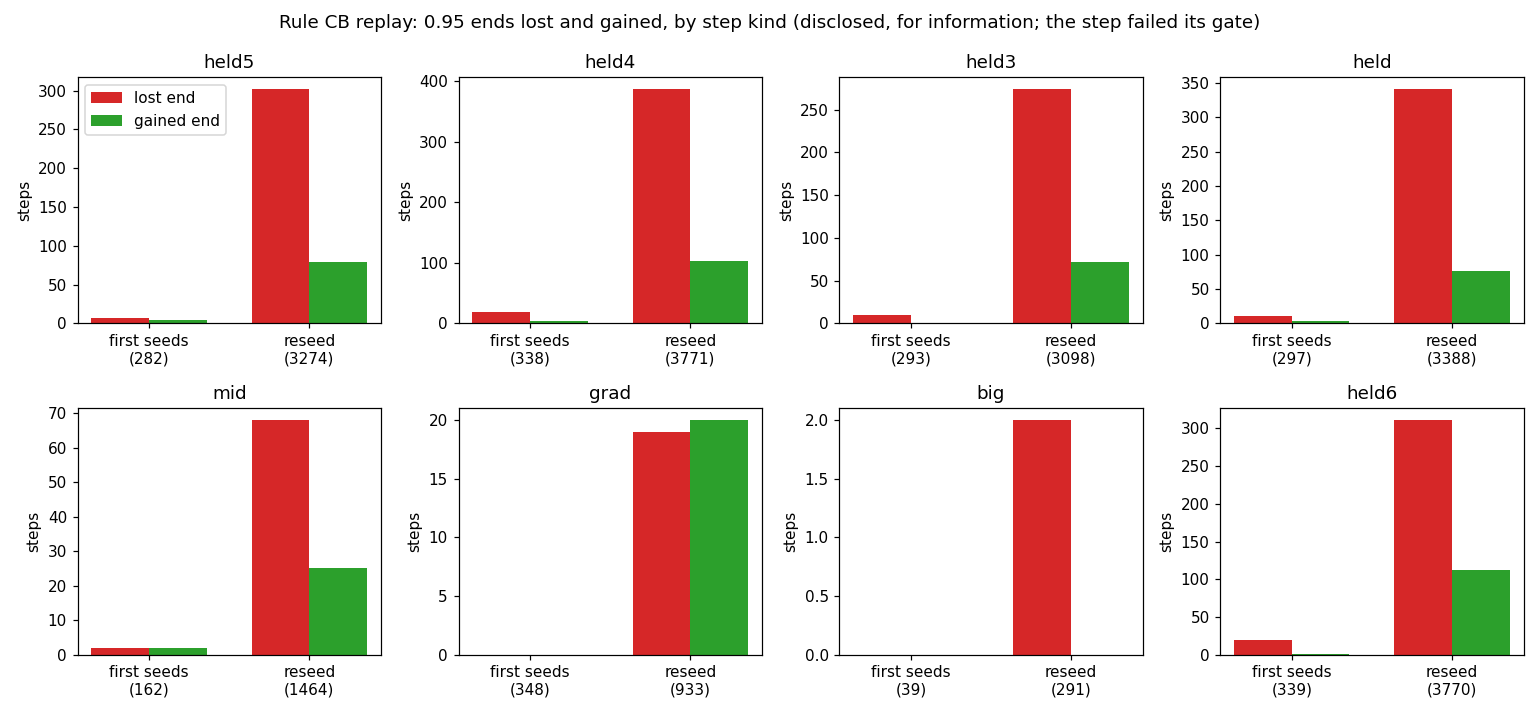
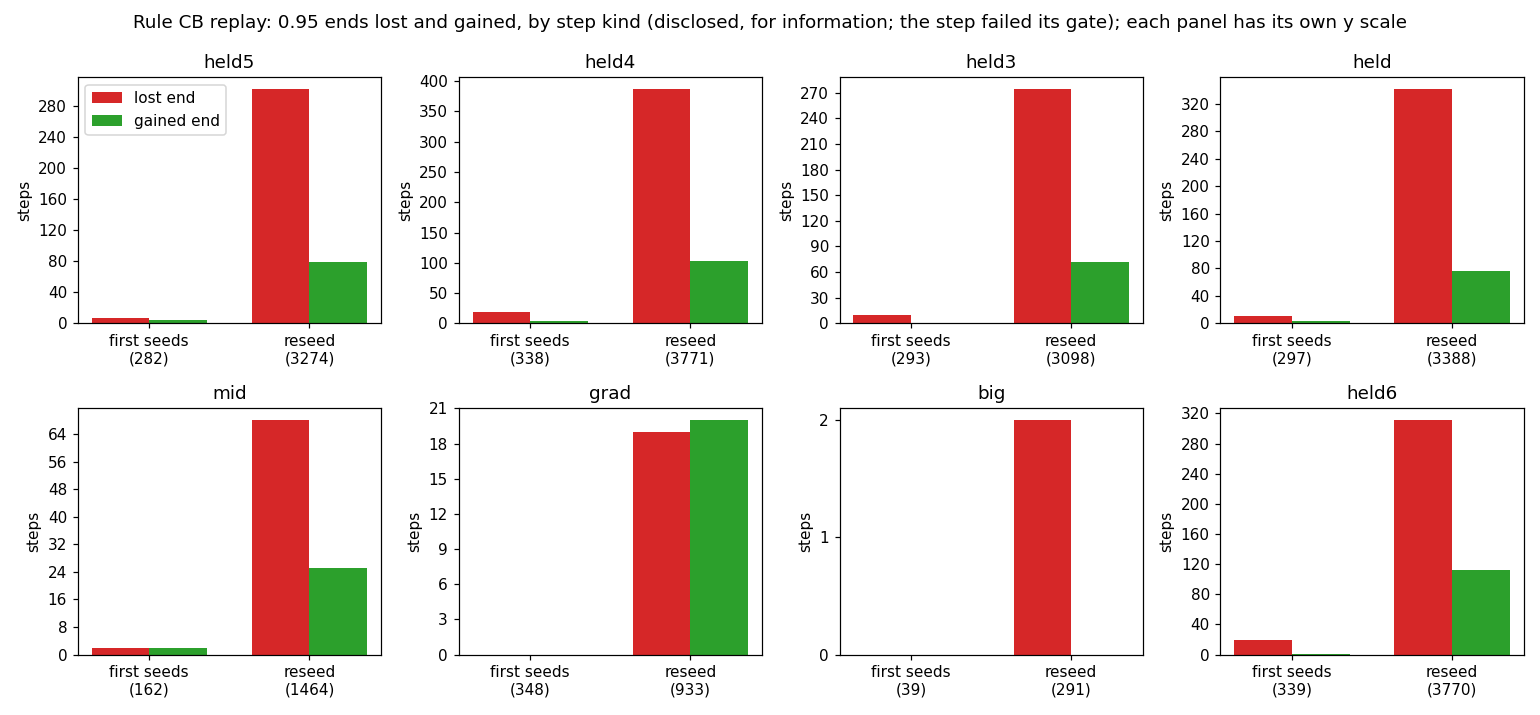
AR5 step 23 review fixes: 45.007%, Wilson intervals, totals and over-0.33 shares, mid lost-step facts, pauses, disclosure lines, D-20261119-N2

diff --git a/icenine_py/scripts/autoresearch/ar5/ball_info.py b/icenine_py/scripts/autoresearch/ar5/ball_info.py
@@ -11,6 +11,7 @@ gate. Step kinds: first seeds (``reseed`` False) and reseed steps (``reseed`` Tr
 tests of significance.
 """
 
+import gzip
 import json
 import sys
 from pathlib import Path
@@ -21,6 +22,7 @@ import ball_guard as BG  # noqa: E402
 import ball_replay_collect as BC  # noqa: E402
 import ball_rules as BR  # noqa: E402
 import doc_tables as DT  # noqa: E402
+import stats as ST  # noqa: E402
 
 RD = BC.RD
 CACHE = BG.base_cache()
@@ -54,6 +56,38 @@ def where_counts(s: str) -> Dict[str, Any]:
     return dict(n=len(d), zone=zone, dist=dist, cross=cross)
 
 
+def mid_lost_facts() -> Dict[str, Any]:
+    """The facts about the 70 lost ``mid`` steps (from the rows and J5D's stored e1_log)."""
+    rows = [
+        json.loads(x)
+        for x in BG.guarded(CACHE / "replay_on_mid" / "rows.jsonl").read_text().splitlines()
+        if x
+    ]
+    with gzip.open(BG.guarded(CACHE / "J5D_mid" / "e1_log.json.gz"), "rt") as fh:
+        ent = json.load(fh)
+    lost = [r for r in rows if r["lost_end"]]
+    hits = []
+    for r in lost:
+        e = ent[r["index"]]
+        hits.append(
+            min(f[3] for f in e["fits"] if f[0] == e["stop"] and f[2] == "M" and f[3] >= 0.95)
+        )
+    hits.sort()
+    n = len(hits)
+    med = hits[n // 2] if n % 2 else 0.5 * (hits[n // 2 - 1] + hits[n // 2])
+    return dict(
+        lost=n,
+        median_stored_end_hit_ratio=float(med),
+        min_stored_end_hit_ratio=float(hits[0]),
+        stored_end_under_0_97=sum(1 for h in hits if h < 0.97),
+        stored_end_is_mc_fit=n,
+        reseed_steps=sum(1 for r in lost if r["reseed"]),
+        j5d_steps_with_a_pause=sum(1 for r in lost if r["j5d_paused"] > 0),
+        j5d_evals=sum(r["j5d_evals"] for r in lost),
+        cb_evals=sum(r["evals"] for r in lost),
+    )
+
+
 def main() -> int:
     info: Dict[str, Any] = dict(label=LABEL, samples={})
     for s in ORDER:
@@ -65,7 +99,25 @@ def main() -> int:
         one = BC.one(s)
         t = dict(one)
         t.pop("moved_list", None)
-        info["samples"][s] = dict(replay=t, kinds=kind_counts(rows), where=where_counts(s))
+        w = where_counts(s)
+        lo, hi = ST.wilson(int(t["lost"]), int(t["steps"]))
+        t["lost_share_wilson95"] = [float(lo), float(hi)]
+        summ = json.loads(BG.guarded(CACHE / f"replay_on_{s}" / "summary.json").read_text())
+        t["pauses"] = int(summ["stats"]["pauses"])
+        w["over_0_33"] = int(w["dist"]["0.33-0.64"] + w["dist"]["over 0.64"])
+        w["over_0_33_share"] = w["over_0_33"] / max(1, w["n"])
+        info["samples"][s] = dict(replay=t, kinds=kind_counts(rows), where=w)
+    info["totals"] = dict(
+        steps=sum(info["samples"][s]["replay"]["steps"] for s in ORDER),
+        lost=sum(info["samples"][s]["where"]["n"] for s in ORDER),
+        lost_over_0_33=sum(info["samples"][s]["where"]["over_0_33"] for s in ORDER),
+        pauses=sum(info["samples"][s]["replay"]["pauses"] for s in ORDER),
+    )
+    info["mid_lost_facts"] = mid_lost_facts()
+    pp = RD / "replay_partial.json"
+    part = json.loads(pp.read_text())
+    part["mid_lost_facts"] = info["mid_lost_facts"]
+    pp.write_text(json.dumps(part, indent=1) + "\n")
     # predictions of the plan (prediction 2), hit or missed
     pred: Dict[str, Any] = {}
     for s in ORDER:
@@ -92,6 +144,7 @@ def main() -> int:
 
     matplotlib.use("Agg")
     import matplotlib.pyplot as plt
+    from matplotlib.ticker import MaxNLocator
     import numpy as np
 
     fig, axs = plt.subplots(2, 4, figsize=(14, 6.5))
@@ -108,8 +161,12 @@ def main() -> int:
         )
         ax.set_title(s)
         ax.set_ylabel("steps")
+        ax.yaxis.set_major_locator(MaxNLocator(integer=True))
     axs[0, 0].legend()
-    fig.suptitle(f"Rule CB replay: 0.95 ends lost and gained, by step kind ({LABEL})")
+    fig.suptitle(
+        f"Rule CB replay: 0.95 ends lost and gained, by step kind ({LABEL});"
+        " each panel has its own y scale"
+    )
     fig.tight_layout()
     fig.savefig(RD / "ar5_ball_lost_gained.png", dpi=110)
     plt.close(fig)
@@ -143,8 +200,30 @@ def main() -> int:
                 lost_pct=100 * r["lost_share"],
             )
         )
+        lo, hi = r["lost_share_wilson95"]
+        kd[-1]["wilson95"] = f"{100 * lo:.2f}-{100 * hi:.2f}%"
         zn.append(dict(sample=s, lost=w["n"], **{z: w["zone"][z] for z in ZONES}))
-        ds.append(dict(sample=s, lost=w["n"], **{b: w["dist"][b] for b in BINS}))
+        ds.append(
+            dict(
+                sample=s,
+                lost=w["n"],
+                **{b: w["dist"][b] for b in BINS},
+                over_0_33=w["over_0_33"],
+                share=100 * w["over_0_33_share"],
+            )
+        )
+    T = info["totals"]
+    ev.append(dict(sample="all eight", steps=T["steps"]))
+    kd.append(dict(sample="all eight", lost_pct=100 * T["lost"] / T["steps"]))
+    zn.append(dict(sample="all eight", lost=T["lost"]))
+    ds.append(
+        dict(
+            sample="all eight",
+            lost=T["lost"],
+            over_0_33=T["lost_over_0_33"],
+            share=100 * T["lost_over_0_33"] / T["lost"],
+        )
+    )
     DT.write_tables(
         RD / "info_tables.md",
         dict(
@@ -163,6 +242,8 @@ def main() -> int:
                 ],
                 dict(
                     steps=",d",
+                    j5d_end=",d",
+                    cb_end=",d",
                     j5d_evals=",d",
                     cb_evals=",d",
                     fewer=".1f",
@@ -181,11 +262,14 @@ def main() -> int:
                     "reseed_lost",
                     "reseed_gained",
                     "lost_pct",
+                    "wilson95",
                 ],
                 dict(first_steps=",d", reseed_steps=",d", lost_pct=".2f"),
             ),
             ar5_ball_info_zone=DT.markdown_table(zn, ["sample", "lost"] + list(ZONES)),
-            ar5_ball_info_dist=DT.markdown_table(ds, ["sample", "lost"] + list(BINS)),
+            ar5_ball_info_dist=DT.markdown_table(
+                ds, ["sample", "lost"] + list(BINS) + ["over_0_33", "share"], dict(share=".1f")
+            ),
         ),
     )
     for s in ORDER:

diff --git a/icenine_py/benchmarks/autoresearch/ar5/ball/info_tables.md b/icenine_py/benchmarks/autoresearch/ar5/ball/info_tables.md
@@ -1,40 +1,43 @@
 <!-- table:ar5_ball_info_dist -->
-| sample | lost | 0-0.1 | 0.1-0.33 | 0.33-0.64 | over 0.64 |
-|---|---|---|---|---|---|
-| held5 | 309 | 2 | 29 | 114 | 164 |
-| held4 | 406 | 1 | 27 | 176 | 202 |
-| held3 | 284 | 0 | 31 | 123 | 130 |
-| held | 352 | 3 | 28 | 145 | 176 |
-| mid | 70 | 1 | 15 | 25 | 29 |
-| grad | 19 | 0 | 14 | 5 | 0 |
-| big | 2 | 0 | 1 | 1 | 0 |
-| held6 | 330 | 2 | 34 | 136 | 158 |
+| sample | lost | 0-0.1 | 0.1-0.33 | 0.33-0.64 | over 0.64 | over_0_33 | share |
+|---|---|---|---|---|---|---|---|
+| held5 | 309 | 2 | 29 | 114 | 164 | 278 | 90.0 |
+| held4 | 406 | 1 | 27 | 176 | 202 | 378 | 93.1 |
+| held3 | 284 | 0 | 31 | 123 | 130 | 253 | 89.1 |
+| held | 352 | 3 | 28 | 145 | 176 | 321 | 91.2 |
+| mid | 70 | 1 | 15 | 25 | 29 | 54 | 77.1 |
+| grad | 19 | 0 | 14 | 5 | 0 | 5 | 26.3 |
+| big | 2 | 0 | 1 | 1 | 0 | 1 | 50.0 |
+| held6 | 330 | 2 | 34 | 136 | 158 | 294 | 89.1 |
+| all eight | 1772 | n/a | n/a | n/a | n/a | 1584 | 89.4 |
 <!-- /table:ar5_ball_info_dist -->
 
 <!-- table:ar5_ball_info_evals -->
 | sample | steps | j5d_evals | cb_evals | fewer | per_ref | floor | j5d_end | cb_end |
 |---|---|---|---|---|---|---|---|---|
-| held5 | 3,556 | 8,690,640 | 3,398,238 | 60.9 | 263 | 100.0 | 3009 | 2783 |
-| held4 | 4,109 | 10,882,299 | 3,884,631 | 64.3 | 264 | 100.0 | 3509 | 3210 |
-| held3 | 3,391 | 8,840,378 | 3,287,015 | 62.8 | 263 | 100.0 | 2790 | 2578 |
-| held | 3,685 | 9,129,537 | 3,433,723 | 62.4 | 262 | 100.0 | 3180 | 2908 |
-| mid | 1,626 | 2,644,672 | 1,099,560 | 58.4 | 263 | 100.0 | 1496 | 1453 |
-| grad | 1,281 | 1,255,626 | 690,503 | 45.0 | 255 | 100.0 | 1183 | 1184 |
+| held5 | 3,556 | 8,690,640 | 3,398,238 | 60.9 | 263 | 100.0 | 3,009 | 2,783 |
+| held4 | 4,109 | 10,882,299 | 3,884,631 | 64.3 | 264 | 100.0 | 3,509 | 3,210 |
+| held3 | 3,391 | 8,840,378 | 3,287,015 | 62.8 | 263 | 100.0 | 2,790 | 2,578 |
+| held | 3,685 | 9,129,537 | 3,433,723 | 62.4 | 262 | 100.0 | 3,180 | 2,908 |
+| mid | 1,626 | 2,644,672 | 1,099,560 | 58.4 | 263 | 100.0 | 1,496 | 1,453 |
+| grad | 1,281 | 1,255,626 | 690,503 | 45.0 | 255 | 100.0 | 1,183 | 1,184 |
 | big | 330 | 261,653 | 143,064 | 45.3 | 261 | 100.0 | 326 | 324 |
-| held6 | 4,109 | 10,054,329 | 3,684,745 | 63.4 | 263 | 100.0 | 3522 | 3305 |
+| held6 | 4,109 | 10,054,329 | 3,684,745 | 63.4 | 263 | 100.0 | 3,522 | 3,305 |
+| all eight | 22,087 | n/a | n/a | n/a | n/a | n/a | n/a | n/a |
 <!-- /table:ar5_ball_info_evals -->
 
 <!-- table:ar5_ball_info_kinds -->
-| sample | first_steps | first_lost | first_gained | reseed_steps | reseed_lost | reseed_gained | lost_pct |
-|---|---|---|---|---|---|---|---|
-| held5 | 282 | 7 | 4 | 3,274 | 302 | 79 | 8.69 |
-| held4 | 338 | 19 | 4 | 3,771 | 387 | 103 | 9.88 |
-| held3 | 293 | 10 | 0 | 3,098 | 274 | 72 | 8.38 |
-| held | 297 | 11 | 4 | 3,388 | 341 | 76 | 9.55 |
-| mid | 162 | 2 | 2 | 1,464 | 68 | 25 | 4.31 |
-| grad | 348 | 0 | 0 | 933 | 19 | 20 | 1.48 |
-| big | 39 | 0 | 0 | 291 | 2 | 0 | 0.61 |
-| held6 | 339 | 19 | 1 | 3,770 | 311 | 112 | 8.03 |
+| sample | first_steps | first_lost | first_gained | reseed_steps | reseed_lost | reseed_gained | lost_pct | wilson95 |
+|---|---|---|---|---|---|---|---|---|
+| held5 | 282 | 7 | 4 | 3,274 | 302 | 79 | 8.69 | 7.81-9.66% |
+| held4 | 338 | 19 | 4 | 3,771 | 387 | 103 | 9.88 | 9.01-10.83% |
+| held3 | 293 | 10 | 0 | 3,098 | 274 | 72 | 8.38 | 7.49-9.36% |
+| held | 297 | 11 | 4 | 3,388 | 341 | 76 | 9.55 | 8.64-10.54% |
+| mid | 162 | 2 | 2 | 1,464 | 68 | 25 | 4.31 | 3.42-5.40% |
+| grad | 348 | 0 | 0 | 933 | 19 | 20 | 1.48 | 0.95-2.30% |
+| big | 39 | 0 | 0 | 291 | 2 | 0 | 0.61 | 0.17-2.18% |
+| held6 | 339 | 19 | 1 | 3,770 | 311 | 112 | 8.03 | 7.24-8.90% |
+| all eight | n/a | n/a | n/a | n/a | n/a | n/a | 8.02 | n/a |
 <!-- /table:ar5_ball_info_kinds -->
 
 <!-- table:ar5_ball_info_zone -->
@@ -48,4 +51,5 @@
 | grad | 19 | 0 | 0 | 19 | 0 |
 | big | 2 | 0 | 0 | 2 | 0 |
 | held6 | 330 | 0 | 0 | 330 | 0 |
+| all eight | 1772 | n/a | n/a | n/a | n/a |
 <!-- /table:ar5_ball_info_zone -->

diff --git a/icenine_py/MIGRATION_HISTORY.md b/icenine_py/MIGRATION_HISTORY.md
@@ -13609,8 +13609,17 @@ is under 0.01 degree or after 300 proposals. Script layer only (`scripts/autores
   (prediction 250 to 450), every second stage ends at the floor (1,801 of 1,801), steps with an end
   at 0.95: 1,453 against 1,496 (-2.9%, inside 3%); but 70 of 1,626 steps (4.31%) lose their 0.95 end
   (the frozen limit is 3%), and 27 gain one. All 70 lost ends were MC ends in `J5D`, the median hit
-  ratio of the stored end 0.980. No `J5DC` run, no gate g2, no `held7`.
-- The other seven samples were replayed afterwards, for information only (disclosed; the step failed
+  ratio of the stored end 0.980 (23 of 70 under 0.97; 68 reseed steps; 57 steps where `J5D` had paused a
+  refinement; 165,149 evaluations under `CB` against 259,009 for `J5D`: `replay_partial.json`,
+  `mid_lost_facts`). The Wilson 95% interval of the lost share is 3.42% to 5.40%, all above the 3% limit.
+  No `J5DC` run, no gate g2, no `held7`.
+- Disclosure: the g0 CB-off run (and the 12-step pilot) started before the final write and commit of the
+  unpinned measurement script `ball_replay.py` (written 01:42, committed 01:43; the runs began 01:33 to
+  01:34). The pinned rule files were frozen (b847a6c9) and unchanged; every run checks their hashes.
+  `ball_run_all.sh`, `ball_chain.sh`, `ball_build_held7.py`, `ball_score.py` and `ball_summary.py` were
+  never run (later phases): unexercised.
+- The other seven samples were replayed afterwards, for information only (decision D-20261119-N2;
+  disclosed; the step failed
   its gate; `ball/info.json`, `info_tables.md`, `ar5_ball_lost_gained.png`; one job at a time). Index-stage
   evaluations, `J5D` against `CB` (millions): `held5` 8.69 / 3.40, `held4` 10.88 / 3.88, `held3` 8.84 /
   3.29, `held` 9.13 / 3.43, `mid` 2.64 / 1.10, `grad` 1.26 / 0.69, `big` 0.26 / 0.14, `held6` 10.05 / 3.68
@@ -13618,12 +13627,15 @@ is under 0.01 degree or after 300 proposals. Script layer only (`scripts/autores
   Steps that lose / gain a 0.95 end, first seeds and reseed steps: `held5` 7+302 / 4+79, `held4` 19+387 /
   4+103, `held3` 10+274 / 0+72, `held` 11+341 / 4+76, `mid` 2+68 / 2+25, `grad` 0+19 / 0+20, `big` 0+2 /
   0+0, `held6` 19+311 / 1+112; lost shares 8.69%, 9.88%, 8.38%, 9.55%, 4.31%, 1.48%, 0.61%, 8.03% of the
-  steps: g1 fails on `mid` and all five held types, passes on `grad` and `big`. All 1,772 lost ends were
+  steps (Wilson 95%: `mid` 3.42% to 5.40%, `grad` 0.95% to 2.30%, `big` 0.17% to 2.18%; the held types
+  7.24% to 10.83%): g1 fails on `mid` and all five held types, passes on `grad` and `big`. Over 22,087
+  replayed steps, 1,772 lost ends (the over-0.33-degree share per sample and the totals are in
+  `info_tables.md`: 1,584 of 1,772 over 0.33 degree). All 1,772 lost ends were
   found after the first block of the stock second stage (none in the first stage or the first block); on
   the held types 89% to 93% (`mid` 77%) lie over 0.33 degree from the first stage's best, 164 of 309
   on `held5` over 0.64. Consistent with the loss being the missing wide restarts; that cause was not
   tested. Prediction 2: evaluations per refinement and floor ends hit on all eight; the saving was
   over the band on the held types (60.9% to 64.3% against 40% to 60%) and just over it on `grad`
-  (45.005% against 45%) and `big` (45.3%); steps with an end within 3% of `J5D`: hit on `mid`, `grad`,
+  (45.007% against 45%) and `big` (45.3%); steps with an end within 3% of `J5D`: hit on `mid`, `grad`,
   `big`, missed on the five held types (-6.2% to -8.6%). Findings-page text: report
   `20261119-ar5w-findings_ar5_ball.md` (the write into `docs/autoresearch/` was refused).
